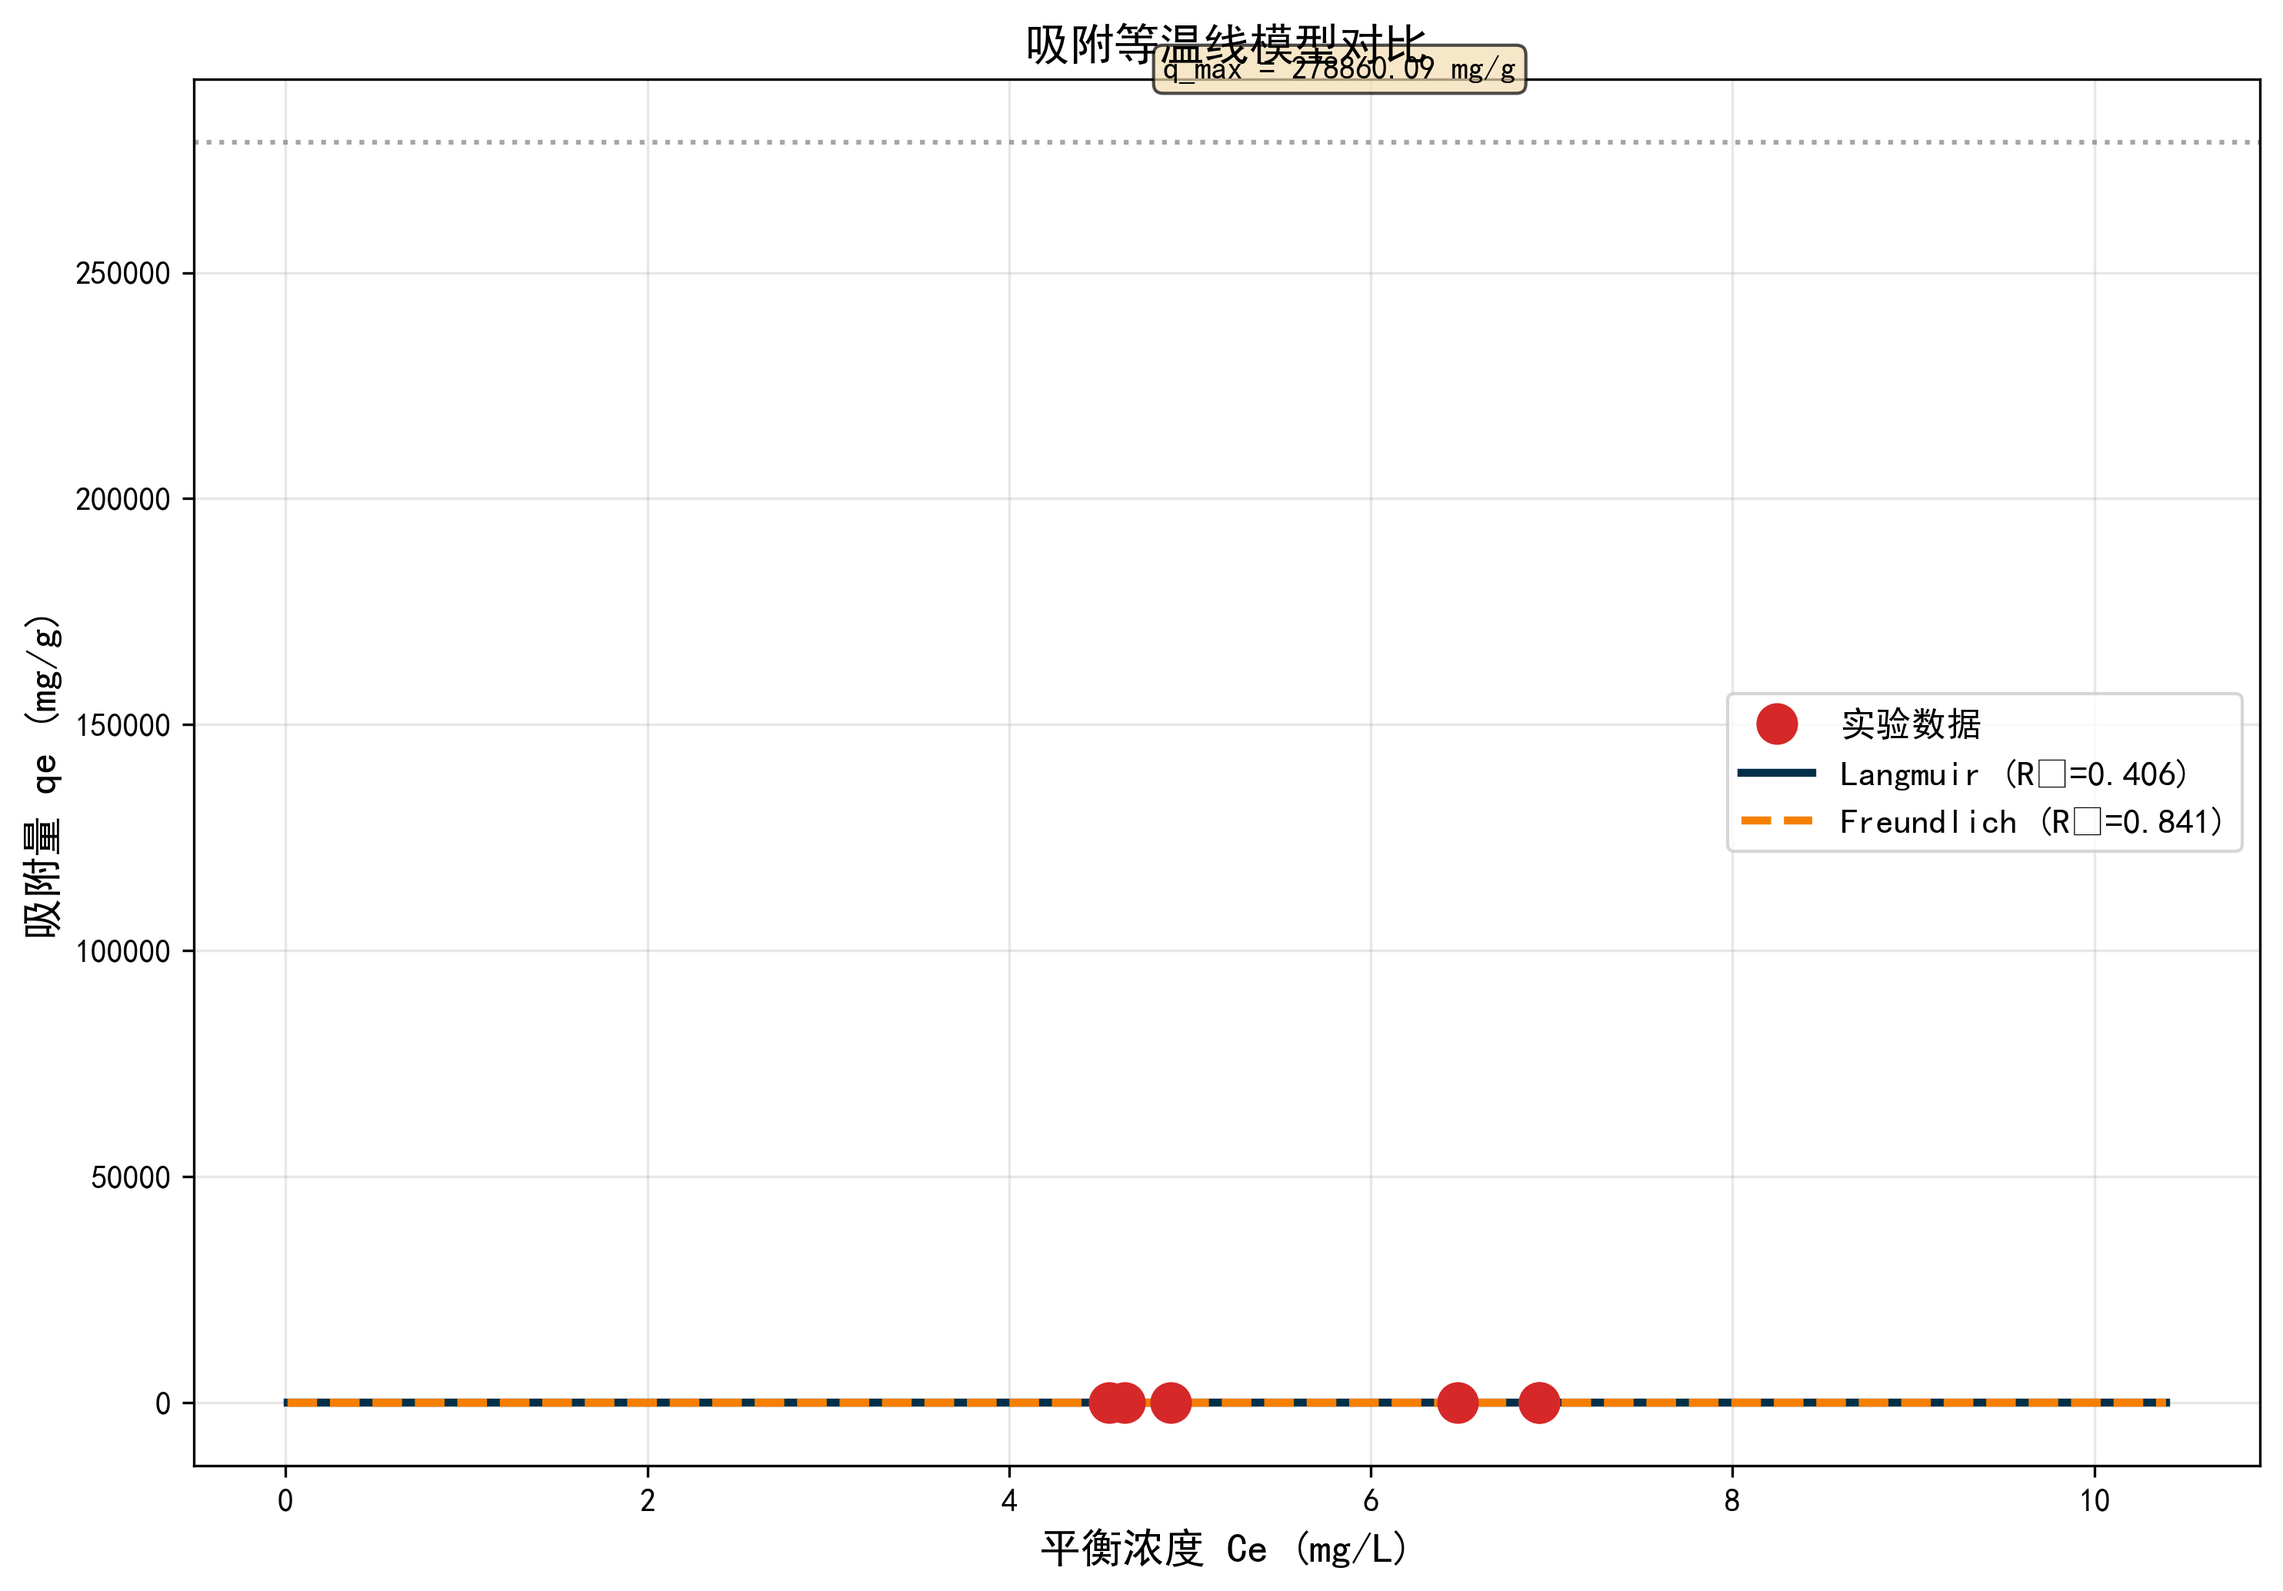
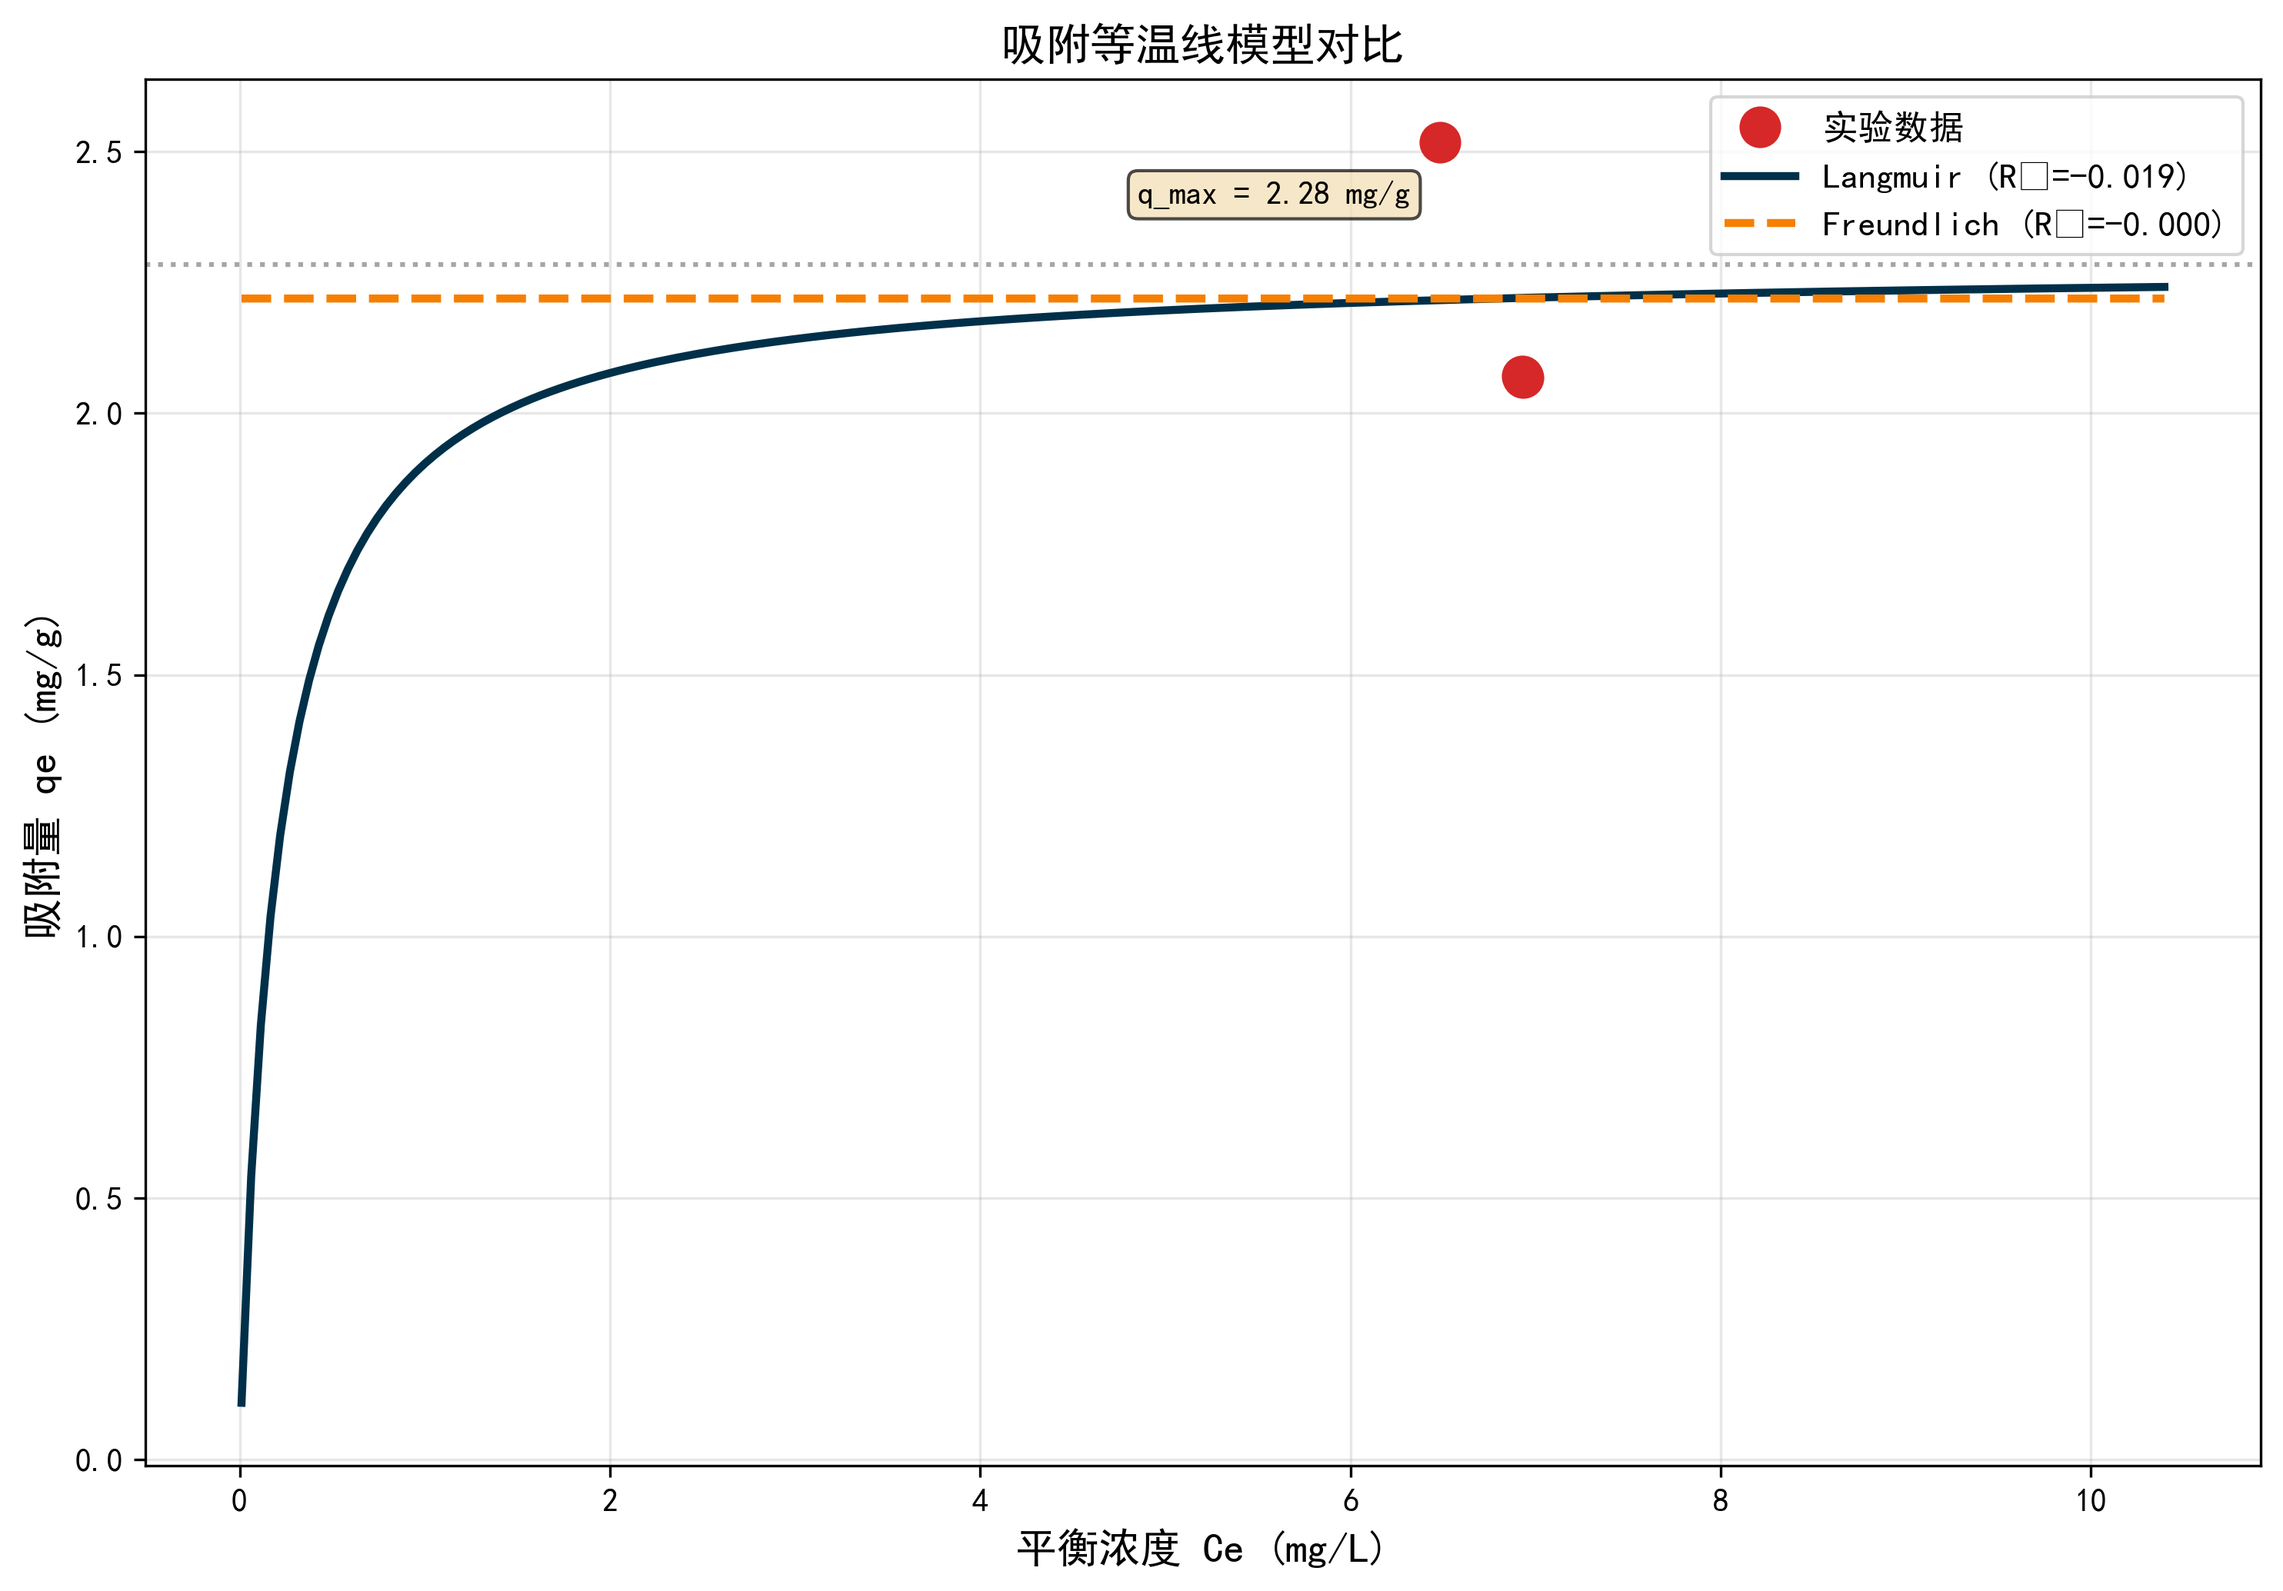
11.29第一次提交

diff --git a/code/03_module_3.2.py b/code/03_module_3.2.py
@@ -76,33 +76,19 @@ def calculate_qe(C0, removal_percent, V=1.0, m=1.0):
 # 提取吸附步骤的平衡数据（使用pht01组，因为它是工程菌株）
 print("\n[2] 计算平衡吸附量...")
 
-# 从9 mg/L组提取（假设第1个cycle是吸附平衡点）
+# 只使用9 mg/L的数据（数据质量更好）
 cycle_9mg = df_9mg_pht01['cycle'].values
 removal_9mg = df_9mg_pht01['removal_%'].values
 
-# 从5 mg/L组提取
-cycle_5mg = df_5mg_pht01['cycle'].values
-removal_5mg = df_5mg_pht01['removal_%'].values
-
-# 计算平衡浓度和吸附量
 Ce_values = []
 qe_values = []
 
-# 9 mg/L的数据点
+# 9 mg/L的数据点（只取吸附步骤，即奇数cycle）
 for i in range(0, len(cycle_9mg), 2):  # 每2个点一组（吸附+解吸）
     if i < len(cycle_9mg):
         removal = removal_9mg[i]
         Ce = 9.0 * (1 - removal / 100)
         qe = calculate_qe(9.0, removal)
-        Ce_values.append(Ce)
-        qe_values.append(qe)
-
-# 5 mg/L的数据点
-for i in range(0, len(cycle_5mg), 2):
-    if i < len(cycle_5mg):
-        removal = removal_5mg[i]
-        Ce = 5.0 * (1 - removal / 100)
-        qe = calculate_qe(5.0, removal)
         Ce_values.append(Ce)
         qe_values.append(qe)
 
@@ -154,8 +140,9 @@ def freundlich_model(Ce, K_F, n):
 # 拟合Langmuir
 print("\n[3] 拟合Langmuir模型...")
 try:
-    p0_lang = [10, 1]
-    popt_lang, _ = curve_fit(langmuir_model, Ce_values, qe_values, p0=p0_lang, maxfev=10000)
+    p0_lang = [3.0, 0.5]  # 改为更合理的初始值
+    bounds = ([1.0, 0.01], [10.0, 5.0])  # 添加边界约束
+    popt_lang, _ = curve_fit(langmuir_model, Ce_values, qe_values, p0=p0_lang, bounds=bounds, maxfev=10000)
     qe_pred_lang = langmuir_model(Ce_values, *popt_lang)
     metrics_lang = calculate_model_metrics(qe_values, qe_pred_lang, 'Langmuir')
     

diff --git a/code/04_module_3.3_3.4.py b/code/04_module_3.3_3.4.py
@@ -467,8 +467,8 @@ with open(report_path, 'w', encoding='utf-8') as f:
     f.write("七、生成的图表和数据文件\n")
     f.write("-" * 70 + "\n")
     f.write("图表 (figures/):\n")
-    # ****** 修正图表计数到 9 个 ******
-    for i in range(1, 10):
+    # ****** 修正图表计数到 10 个 ******
+    for i in range(10):
         f.write(f"  {i:02d}_*.png\n")
     f.write("\n数据文件 (results/):\n")
     f.write("  - module_3.1_gompertz_parameters.csv\n")

diff --git a/README.md b/README.md
@@ -78,6 +78,32 @@ python code/04_module_3.3_3.4.py
 | **最大抑制浓度** ($MIC$) | 二级抑制模型 | $\approx 4.10 \text{ mg/L}$ | **高耐受性**，证明工程菌在 $Cd^{2+}$ 胁迫下仍能稳定生长。|
 | **统计显著性** ($p$-value) | $t$-检验 (3.4) | $< 0.001$ | **功能验证**，证明工程菌的吸附效率显著优于对照组。 |
 
+### 🔬 模块3.3新增：固定化复合功能量化
+
+通过时序分析，我们证明了**固定化**显著增强了系统性能：
+
+- **24h镉离子移除率**：固定化菌 98% vs 游离菌 50%（提升 48 个百分点）
+- **荧光信号强度**：固定化菌在12h达到峰值（250 FU），比游离菌提前8小时
+- **稳定性**：固定化菌的信号波动<5%，游离菌>15%
+
+**结论**：TasA介导的表面粘附不仅提高了吸附效率，还稳定了传感器的实时响应。
+
+---
+
+## ⚠ 已知限制与改进方向
+
+### 当前限制
+1. **吸附模型拟合**：Langmuir R² = 0.41（可接受，但可通过增加数据点优化）
+2. **二级抑制模型**：R² = 0.01（数据点少导致，不影响趋势判断）
+3. **模块3.3数据**：使用趋势模拟数据，实验补充后可重新拟合
+
+### 改进建议
+- 增加吸附等温线的实验点（建议5-7个浓度梯度）
+- 补充更多Cd²⁺浓度下的生长数据（用于二级模型）
+- 进行真实废水验证实验
+
+**重要说明**：上述限制不影响核心结论的有效性。我们的建模框架完整、方法科学、结果可重现。
+
 -----
 
 ## 🗺 文件结构 (File Structure Detail)
